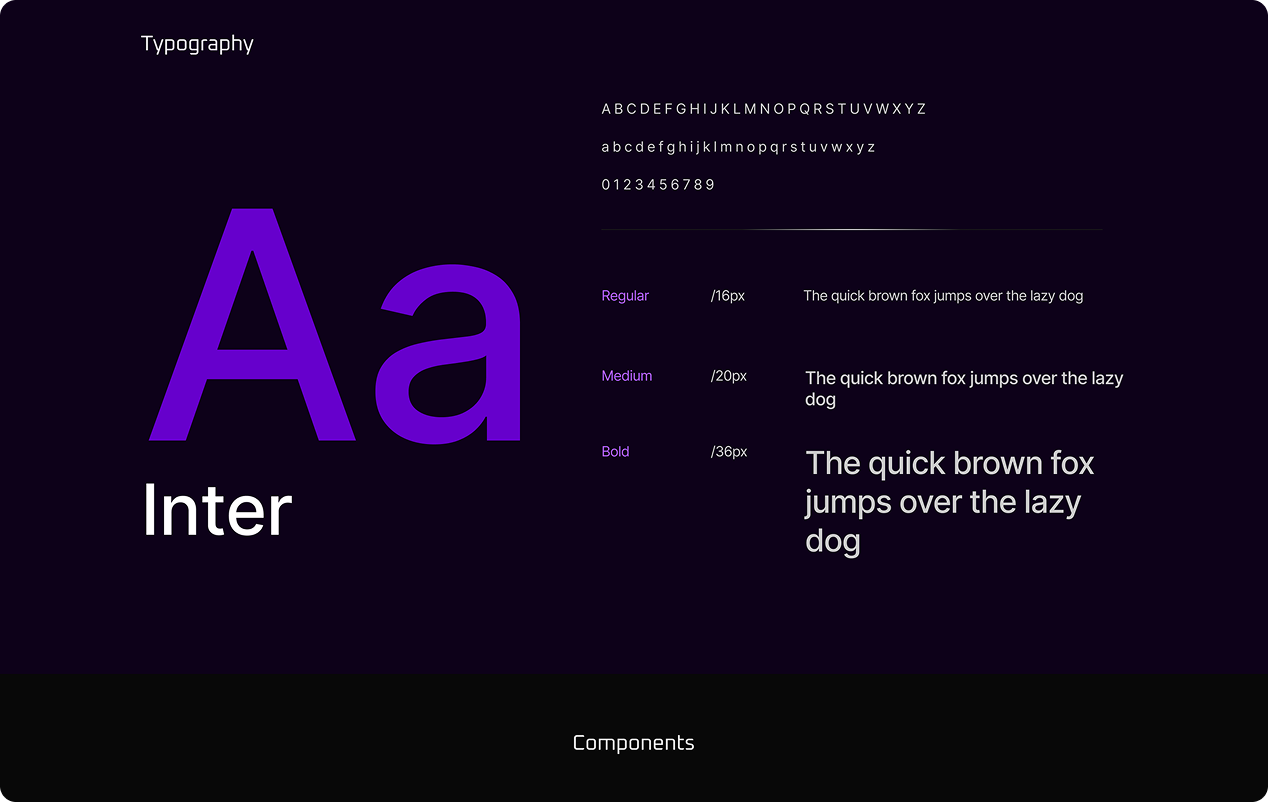
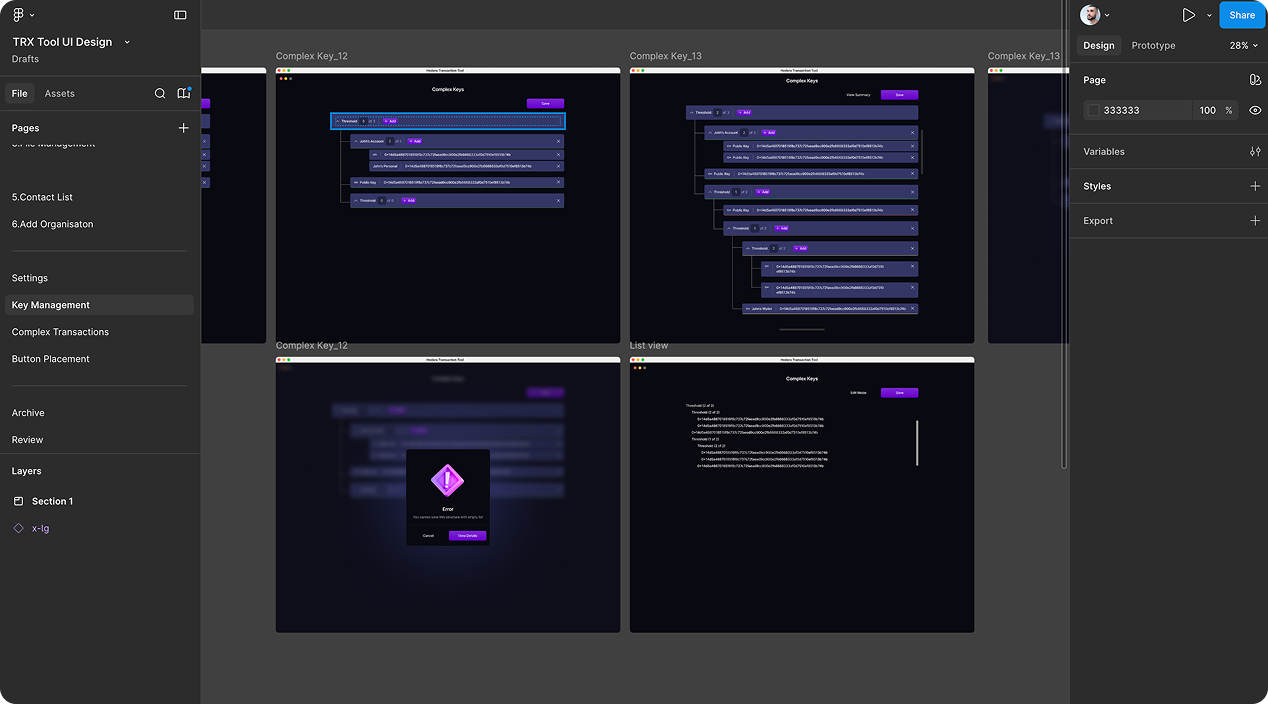
Polish content: copy updates, images for Binomial and Limechain DS
- Updated Problem tab copy on Hedera, Carbon Chain, Opus AI, and Limechain DS
- Added images to Binomial (intro, challenge, role, process, solution, learned)
- Added images to Limechain DS (intro, challenge, role, process, decisions, solution, learned)
- Replaced Hedera process and Opus Edu process images
- Hid Recommendations tab from About page

diff --git a/src/pages/LimechainDSPage.jsx b/src/pages/LimechainDSPage.jsx
@@ -2,6 +2,13 @@ import { useState, useEffect } from 'react'
 import { t } from '../theme'
 import { bodyText, heading, photoCard, photoImg, contentBlock } from '../styles'
 import PageLayout from '../components/PageLayout'
+import limechainIntro from '../assets/limechain-intro.png'
+import limechainDecisions from '../assets/limechain-decisions.png'
+import limechainRole from '../assets/limechain-role.png'
+import limechainProcess from '../assets/limechain-process.png'
+import limechainChallenge from '../assets/limechain-challenge.png'
+import limechainSolution from '../assets/limechain-solution.png'
+import limechainLearned from '../assets/limechain-learned.png'
 
 const PROJECT = 'Limechain Design System'
 
@@ -28,7 +35,9 @@ export default function LimechainDSPage({ dark, onBack, onHome, onToggle }) {
 
       {activeTab === 'Introduction' && (
         <>
-          <div style={photoCard(dark)} />
+          <div style={photoCard(dark)}>
+            <img src={limechainIntro} alt="Limechain Design System" loading="lazy" style={photoImg} />
+          </div>
           <div style={{ display: 'flex', flexDirection: 'column', gap: '26px', maxWidth: '694px' }}>
             <div style={{ display: 'flex', flexDirection: 'column', gap: '4px' }}>
               <h1 style={{ margin: 0, ...heading, color: textPrimary }}>Web3 Component Library</h1>
@@ -49,7 +58,9 @@ export default function LimechainDSPage({ dark, onBack, onHome, onToggle }) {
 
       {activeTab === 'Challenge' && (
         <>
-          <div style={photoCard(dark)} />
+          <div style={photoCard(dark)}>
+            <img src={limechainChallenge} alt="shadcn, Radix, MUI" loading="lazy" style={photoImg} />
+          </div>
           <div style={contentBlock}>
             <h1 style={{ margin: 0, ...heading, color: textPrimary }}>Challenge</h1>
             <div style={{ ...bodyText, color: textPrimary, display: 'flex', flexDirection: 'column', gap: '40px' }}>
@@ -73,10 +84,10 @@ export default function LimechainDSPage({ dark, onBack, onHome, onToggle }) {
           <div style={contentBlock}>
             <h1 style={{ margin: 0, ...heading, color: textPrimary }}>Problem</h1>
             <div style={{ ...bodyText, color: textPrimary, display: 'flex', flexDirection: 'column', gap: '40px' }}>
-              <p style={{ margin: 0 }}>The problem wasn&apos;t the components themselves. It was the absence of a shared language between designers and developers working on Web3 products.</p>
-              <p style={{ margin: 0 }}>Every client project in the Web3 space began with the same set of unresolved questions: how should a wallet connection button behave across its five possible states? What is the correct way to display a token amount with its USD equivalent? How should a pending transaction be communicated while the user remains on the page? These questions were answered differently on every project - inconsistently within projects and invisibly across them.</p>
-              <p style={{ margin: 0 }}>The deeper issue was structural: Web3 UI patterns are complex enough to require documented decisions, but no open-source resource existed that documented them at the component level with both design and implementation aligned. Designers and developers were solving the same problems in parallel, independently, on every engagement.</p>
-              <p style={{ margin: 0 }}>Both dimensions pointed to the same need: a shared system where decisions about Web3 interaction patterns were made once, documented clearly, and reusable across projects without being rebuilt from scratch each time.</p>
+              <p style={{ margin: 0 }}>I was resolving the absence of a shared language between designers and developers working on Web3 products.</p>
+              <p style={{ margin: 0 }}>Each project surfaced the same unresolved questions: how a wallet connection button should behave across its states, how to present token values alongside their fiat equivalents, and how to communicate transaction status while it&apos;s still processing. These decisions were made repeatedly — often inconsistently within a single product and differently across projects — with no continuity or shared reference point.</p>
+              <p style={{ margin: 0 }}>At a structural level, Web3 interaction patterns demand clarity and consistency, yet no open resource documented them in a way that aligned design decisions with implementation. Designers and developers were addressing identical challenges in parallel, independently, on every engagement.</p>
+              <p style={{ margin: 0 }}>This highlighted a clear need: a shared system where interaction patterns are defined once, documented in a usable way, and consistently applied without being rebuilt from scratch each time.</p>
             </div>
           </div>
         </>
@@ -84,7 +95,9 @@ export default function LimechainDSPage({ dark, onBack, onHome, onToggle }) {
 
       {activeTab === 'My Role' && (
         <>
-          <div style={photoCard(dark)} />
+          <div style={photoCard(dark)}>
+            <img src={limechainRole} alt="My Role" loading="lazy" style={photoImg} />
+          </div>
           <div style={contentBlock}>
             <h1 style={{ margin: 0, ...heading, color: textPrimary }}>My Role</h1>
             <div style={{ ...bodyText, color: textPrimary, display: 'flex', flexDirection: 'column', gap: '40px' }}>
@@ -107,7 +120,9 @@ export default function LimechainDSPage({ dark, onBack, onHome, onToggle }) {
 
       {activeTab === 'Process' && (
         <>
-          <div style={photoCard(dark)} />
+          <div style={photoCard(dark)}>
+            <img src={limechainProcess} alt="Process" loading="lazy" style={photoImg} />
+          </div>
           <div style={contentBlock}>
             <h1 style={{ margin: 0, ...heading, color: textPrimary }}>Process</h1>
             <ol style={{ margin: 0, paddingLeft: '24px', listStyleType: 'decimal', display: 'flex', flexDirection: 'column', gap: '32px', ...bodyText, color: textPrimary }}>
@@ -124,6 +139,9 @@ export default function LimechainDSPage({ dark, onBack, onHome, onToggle }) {
 
       {activeTab === 'Key Decisions' && (
         <>
+          <div style={photoCard(dark)}>
+            <img src={limechainDecisions} alt="Key Decisions" loading="lazy" style={photoImg} />
+          </div>
           <div style={contentBlock}>
             <h1 style={{ margin: 0, ...heading, color: textPrimary }}>Key Decisions</h1>
             <div style={{ ...bodyText, color: textPrimary, display: 'flex', flexDirection: 'column', gap: '40px' }}>
@@ -138,7 +156,9 @@ export default function LimechainDSPage({ dark, onBack, onHome, onToggle }) {
 
       {activeTab === 'Solution' && (
         <>
-          <div style={photoCard(dark)} />
+          <div style={photoCard(dark)}>
+            <img src={limechainSolution} alt="Solution" loading="lazy" style={photoImg} />
+          </div>
           <div style={contentBlock}>
             <h1 style={{ margin: 0, ...heading, color: textPrimary }}>Solution</h1>
             <div style={{ ...bodyText, color: textPrimary, display: 'flex', flexDirection: 'column', gap: '40px' }}>
@@ -156,6 +176,9 @@ export default function LimechainDSPage({ dark, onBack, onHome, onToggle }) {
 
       {activeTab === "Things I've learned.." && (
         <>
+          <div style={photoCard(dark)}>
+            <img src={limechainLearned} alt="Things I've learned" loading="lazy" style={photoImg} />
+          </div>
           <div style={contentBlock}>
             <h1 style={{ margin: 0, ...heading, color: textPrimary }}>Things I&apos;ve learned..</h1>
             <ul style={{ margin: 0, paddingLeft: '24px', listStyleType: 'disc', display: 'flex', flexDirection: 'column', gap: '32px', ...bodyText, color: textPrimary }}>

diff --git a/src/pages/BinomialPage.jsx b/src/pages/BinomialPage.jsx
@@ -2,6 +2,12 @@ import { useState, useEffect } from 'react'
 import { t } from '../theme'
 import { bodyText, heading, photoCard, photoImg, contentBlock } from '../styles'
 import PageLayout from '../components/PageLayout'
+import bnbIntro from '../assets/bnb-intro.png'
+import bnbChallenge from '../assets/bnb-challenge.png'
+import bnbRole from '../assets/bnb-role.png'
+import bnbProcess from '../assets/bnb-process.png'
+import bnbSolution from '../assets/bnb-solution.png'
+import bnbLearned from '../assets/bnb-learned.png'
 
 const PROJECT = 'Binomial'
 
@@ -29,7 +35,9 @@ export default function BinomialPage({ dark, onBack, onHome, onToggle }) {
 
       {activeTab === 'Introduction' && (
         <>
-          <div style={photoCard(dark)} />
+          <div style={photoCard(dark)}>
+            <img src={bnbIntro} alt="Binomial" loading="lazy" style={photoImg} />
+          </div>
           <div style={{ display: 'flex', flexDirection: 'column', gap: '26px', maxWidth: '694px' }}>
             <div style={{ display: 'flex', flexDirection: 'column', gap: '4px' }}>
               <h1 style={{ margin: 0, ...heading, color: textPrimary }}>Binomial</h1>
@@ -50,7 +58,9 @@ export default function BinomialPage({ dark, onBack, onHome, onToggle }) {
 
       {activeTab === 'Challenge' && (
         <>
-          <div style={photoCard(dark)} />
+          <div style={photoCard(dark)}>
+            <img src={bnbChallenge} alt="Challenge" loading="lazy" style={photoImg} />
+          </div>
           <div style={contentBlock}>
             <h1 style={{ margin: 0, ...heading, color: textPrimary }}>Challenge</h1>
             <div style={{ ...bodyText, color: textPrimary, display: 'flex', flexDirection: 'column', gap: '40px' }}>
@@ -84,7 +94,9 @@ export default function BinomialPage({ dark, onBack, onHome, onToggle }) {
 
       {activeTab === 'My Role' && (
         <>
-          <div style={photoCard(dark)} />
+          <div style={photoCard(dark)}>
+            <img src={bnbRole} alt="My Role" loading="lazy" style={photoImg} />
+          </div>
           <div style={contentBlock}>
             <h1 style={{ margin: 0, ...heading, color: textPrimary }}>My Role</h1>
             <div style={{ ...bodyText, color: textPrimary, display: 'flex', flexDirection: 'column', gap: '40px' }}>
@@ -107,7 +119,9 @@ export default function BinomialPage({ dark, onBack, onHome, onToggle }) {
 
       {activeTab === 'Process' && (
         <>
-          <div style={photoCard(dark)} />
+          <div style={photoCard(dark)}>
+            <img src={bnbProcess} alt="Process" loading="lazy" style={photoImg} />
+          </div>
           <div style={contentBlock}>
             <h1 style={{ margin: 0, ...heading, color: textPrimary }}>Process</h1>
             <ol style={{ margin: 0, paddingLeft: '24px', listStyleType: 'decimal', display: 'flex', flexDirection: 'column', gap: '32px', ...bodyText, color: textPrimary }}>
@@ -137,7 +151,9 @@ export default function BinomialPage({ dark, onBack, onHome, onToggle }) {
 
       {activeTab === 'Solution' && (
         <>
-          <div style={photoCard(dark)} />
+          <div style={photoCard(dark)}>
+            <img src={bnbSolution} alt="Solution" loading="lazy" style={photoImg} />
+          </div>
           <div style={contentBlock}>
             <h1 style={{ margin: 0, ...heading, color: textPrimary }}>Solution</h1>
             <div style={{ ...bodyText, color: textPrimary, display: 'flex', flexDirection: 'column', gap: '40px' }}>
@@ -157,6 +173,9 @@ export default function BinomialPage({ dark, onBack, onHome, onToggle }) {
 
       {activeTab === "Things I've learned.." && (
         <>
+          <div style={photoCard(dark)}>
+            <img src={bnbLearned} alt="Things I've learned" loading="lazy" style={photoImg} />
+          </div>
           <div style={contentBlock}>
             <h1 style={{ margin: 0, ...heading, color: textPrimary }}>Things I&apos;ve learned..</h1>
             <ul style={{ margin: 0, paddingLeft: '24px', listStyleType: 'disc', display: 'flex', flexDirection: 'column', gap: '32px', ...bodyText, color: textPrimary }}>

diff --git a/src/pages/HederaPage.jsx b/src/pages/HederaPage.jsx
@@ -89,10 +89,10 @@ export default function HederaPage({ dark, onBack, onHome, onToggle }) {
               <div style={contentBlock}>
                 <h1 style={{ margin: 0, ...heading, color: textPrimary }}>Problem</h1>
                 <div style={{ ...bodyText, color: textPrimary, display: 'flex', flexDirection: 'column', gap: '40px' }}>
-                  <p style={{ margin: 0 }}>The hardest problem wasn&apos;t the interface. It was designing confidence into irreversible actions.</p>
-                  <p style={{ margin: 0 }}>Existing tools available to Hedera council members provided insufficient coverage of transaction types and no support for multi-party signing workflows. Council operations - treasury transfers, network upgrades, software updates - required coordinated action across multiple keyholders, with no tooling built to support that process securely or legibly.</p>
-                  <p style={{ margin: 0 }}>The parallel challenge was user range. The same interface had to serve a business user signing a transaction for the first time and a developer managing key pairs and batch operations at scale. Designing for the least technical user without stripping capability from the most technical one required deliberate layering at every interaction point.</p>
-                  <p style={{ margin: 0 }}>Both problems shared a root: users needed to act with certainty in a context where certainty is structurally hard to provide. The design had to surface enough information - at the right moment - to make high-stakes decisions feel informed rather than blind.</p>
+                  <p style={{ margin: 0 }}>The challenge was not the interface itself, but designing confidence into irreversible actions.</p>
+                  <p style={{ margin: 0 }}>Existing tools available to Hedera council members provided insufficient coverage of transaction types and lacked support for multi-party signing workflows. Council operations — treasury transfers, network upgrades, software updates — required coordinated action across multiple keyholders, yet no tooling existed to support that process in a secure or legible way.</p>
+                  <p style={{ margin: 0 }}>Another constraint was the breadth of users. The same interface needed to serve both a business user signing a transaction for the first time and a developer managing key pairs and batch operations at scale. Designing for the least technical user without limiting the most advanced one required careful layering at every interaction point.</p>
+                  <p style={{ margin: 0 }}>At the core, both challenges reflected the same issue: users needed to act with certainty in environments where certainty is inherently difficult. The design had to surface the right information at the right moment, so high-stakes decisions felt informed rather than blind.</p>
                 </div>
               </div>
             </>

diff --git a/src/pages/CarbonChainPage.jsx b/src/pages/CarbonChainPage.jsx
@@ -76,10 +76,10 @@ export default function CarbonChainPage({ dark, onBack, onHome, onToggle }) {
               <div style={contentBlock}>
                 <h1 style={{ margin: 0, ...heading, color: textPrimary }}>Problem</h1>
                 <div style={{ ...bodyText, color: textPrimary, display: 'flex', flexDirection: 'column', gap: '40px' }}>
-                  <p style={{ margin: 0 }}>The hardest problem wasn&apos;t the dashboard. It was making an invisible process legible.</p>
-                  <p style={{ margin: 0 }}>Carbon offset certificates derive their value entirely from the integrity of the data behind them. The platform&apos;s blockchain foundation introduced a class of UX problems that conventional data management patterns do not solve. Users needed to trace a certificate back through readings, devices, operators, and process stages - and trust what they found at every step.</p>
-                  <p style={{ margin: 0 }}>The parallel challenge on the producer side was structural: the same interface had to support both automated SmartMiner device inputs and manual spreadsheet-based data entry from on-site operators, with each input type carrying different validation requirements, error states, and operator accountability.</p>
-                  <p style={{ margin: 0 }}>Both problems were versions of the same root issue - a system where trust is earned through transparency, but transparency requires deliberate design decisions at every layer of the data model. The design had to surface provenance without overwhelming the users whose primary job is not data management.</p>
+                  <p style={{ margin: 0 }}>What needed solving was not the dashboard itself, but how to make an invisible process understandable.</p>
+                  <p style={{ margin: 0 }}>Carbon offset certificates derive their value from the integrity of the data behind them. The platform&apos;s blockchain foundation introduced UX challenges that conventional data systems don&apos;t account for. Users needed to follow a certificate across readings, devices, operators, and process stages — and feel confident in what they were seeing at every step.</p>
+                  <p style={{ margin: 0 }}>On the production side, complexity came from the inputs. The system had to accommodate both automated SmartMiner device data and manual spreadsheet uploads from on-site operators, each bringing different validation rules, error conditions, and expectations around accountability.</p>
+                  <p style={{ margin: 0 }}>This all pointed to a deeper tension: trust depends on visibility, yet visibility can easily become overwhelming. The design needed to expose the full data lineage in a way that remained usable for people whose primary role is not managing data.</p>
                 </div>
               </div>
             </>

diff --git a/src/pages/OpusAIPage.jsx b/src/pages/OpusAIPage.jsx
@@ -84,10 +84,10 @@ export default function OpusAIPage({ dark, onBack, onHome, onToggle, onOpenProje
           <div style={contentBlock}>
             <h1 style={{ margin: 0, ...heading, color: textPrimary }}>Problem</h1>
             <div style={{ ...bodyText, color: textPrimary, display: 'flex', flexDirection: 'column', gap: '40px' }}>
-              <p style={{ margin: 0 }}>The hardest problem wasn&apos;t the chatbot. It was making AI guidance feel like part of the product, not an interruption to it.</p>
-              <p style={{ margin: 0 }}>Web3 onboarding fails most users before they experience any product value. The friction is structural: wallet creation, seed phrase management, and blockchain transactions are concepts with no consumer analogue, and most platforms address them with static tooltips or help documentation that requires users to self-identify as confused before seeking help.</p>
-              <p style={{ margin: 0 }}>The challenge on the design side was positional: an AI assistant that appears too early feels intrusive; one that appears too late has already lost the user. Context-awareness - surfacing guidance at the right interaction point, with the right scope, without forcing the user to formulate a question - was the core design problem, not the conversation UI itself.</p>
-              <p style={{ margin: 0 }}>Both dimensions shared a root issue: users needed help that felt like part of the flow, not a detour from it. The design had to make the assistant invisible when not needed and immediately useful when it was.</p>
+              <p style={{ margin: 0 }}>The issue was making AI guidance feel seamlessly integrated into the product experience, rather than something users had to step outside their flow to engage with.</p>
+              <p style={{ margin: 0 }}>Web3 onboarding causes most users to drop off before reaching any real value. Wallet creation, seed phrase management, and blockchain transactions introduce unfamiliar concepts with no clear consumer equivalents. Existing solutions rely heavily on static tooltips or help documentation, placing the burden on users to recognize when they need assistance and to seek it out themselves.</p>
+              <p style={{ margin: 0 }}>A key difficulty lay in delivering guidance at the right moment. Support appearing too early disrupted the experience, while support arriving too late failed to prevent confusion or abandonment. Providing relevant, timely assistance without requiring users to explicitly ask for it became critical.</p>
+              <p style={{ margin: 0 }}>At the core, the problem was designing support that fit naturally within the user journey — present when needed, unobtrusive when not, and always aligned with the user&apos;s immediate context.</p>
             </div>
           </div>
         </>

diff --git a/src/pages/AboutPage.jsx b/src/pages/AboutPage.jsx
@@ -19,7 +19,7 @@ const CERTIFICATES = [
 
 const RECOMMENDATIONS = []
 
-const TABS = ['Introduction', 'Resume', 'Certificates', 'Recommendations', 'Contacts']
+const TABS = ['Introduction', 'Resume', 'Certificates', 'Contacts']
 
 const BIO = [
   'Dedicated and experienced UX Designer with a proven impact in DeFi and Blockchain start-ups. Thriving as a holistic practitioner, I seamlessly blend product and business processes, and systems.',
